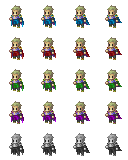
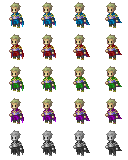
Fixed dark mage male sprites

diff --git a/test.py b/test.py
@@ -6,8 +6,8 @@ import splitter, glob, os
 # (https://www.spriters-resource.com/3ds/fireemblemfates/)
 
 FILE_STRING = 'inputs/{}.png'
-UNIT_NAME = 'nyx'
-CLASS_NAME = 'dark-mage-f'
+UNIT_NAME = 'odin'
+CLASS_NAME = 'dark-mage-m'
 
 splitter.main(
     FILE_STRING.format(UNIT_NAME),

diff --git a/splitter.py b/splitter.py
@@ -120,7 +120,7 @@ HEAD_PARAMS = {
         'size': 'large',
         },
     'dark-mage-m': {
-        'offset': [(0,0),(0,0),(0,0),(0,0),],
+        'offset': [(-1,3),(-1,3),(-1,3),(-1,3),],
         'size': 'large',
         },
     }
